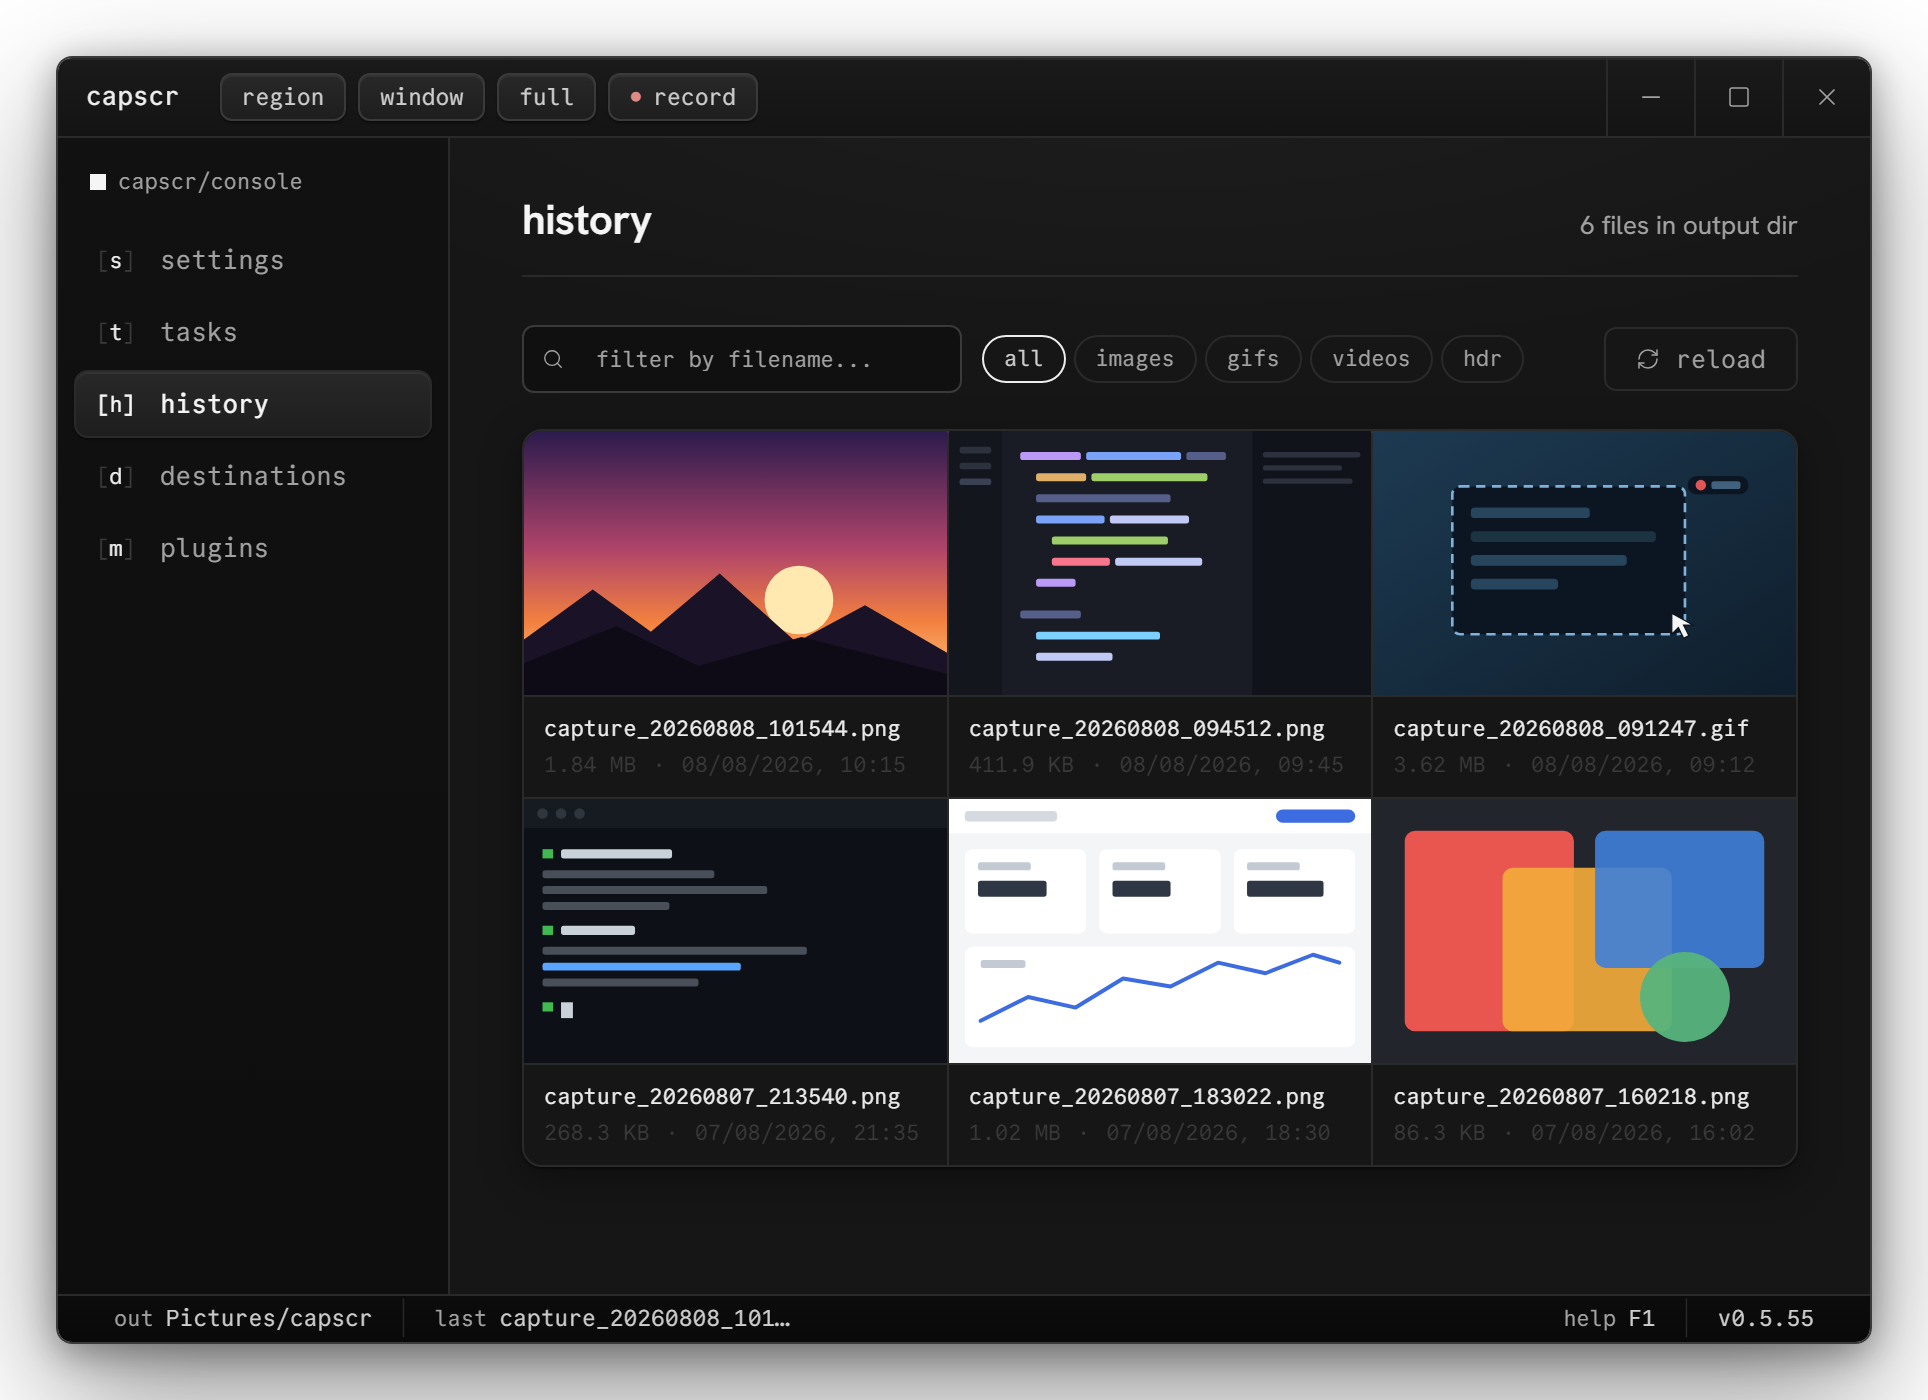
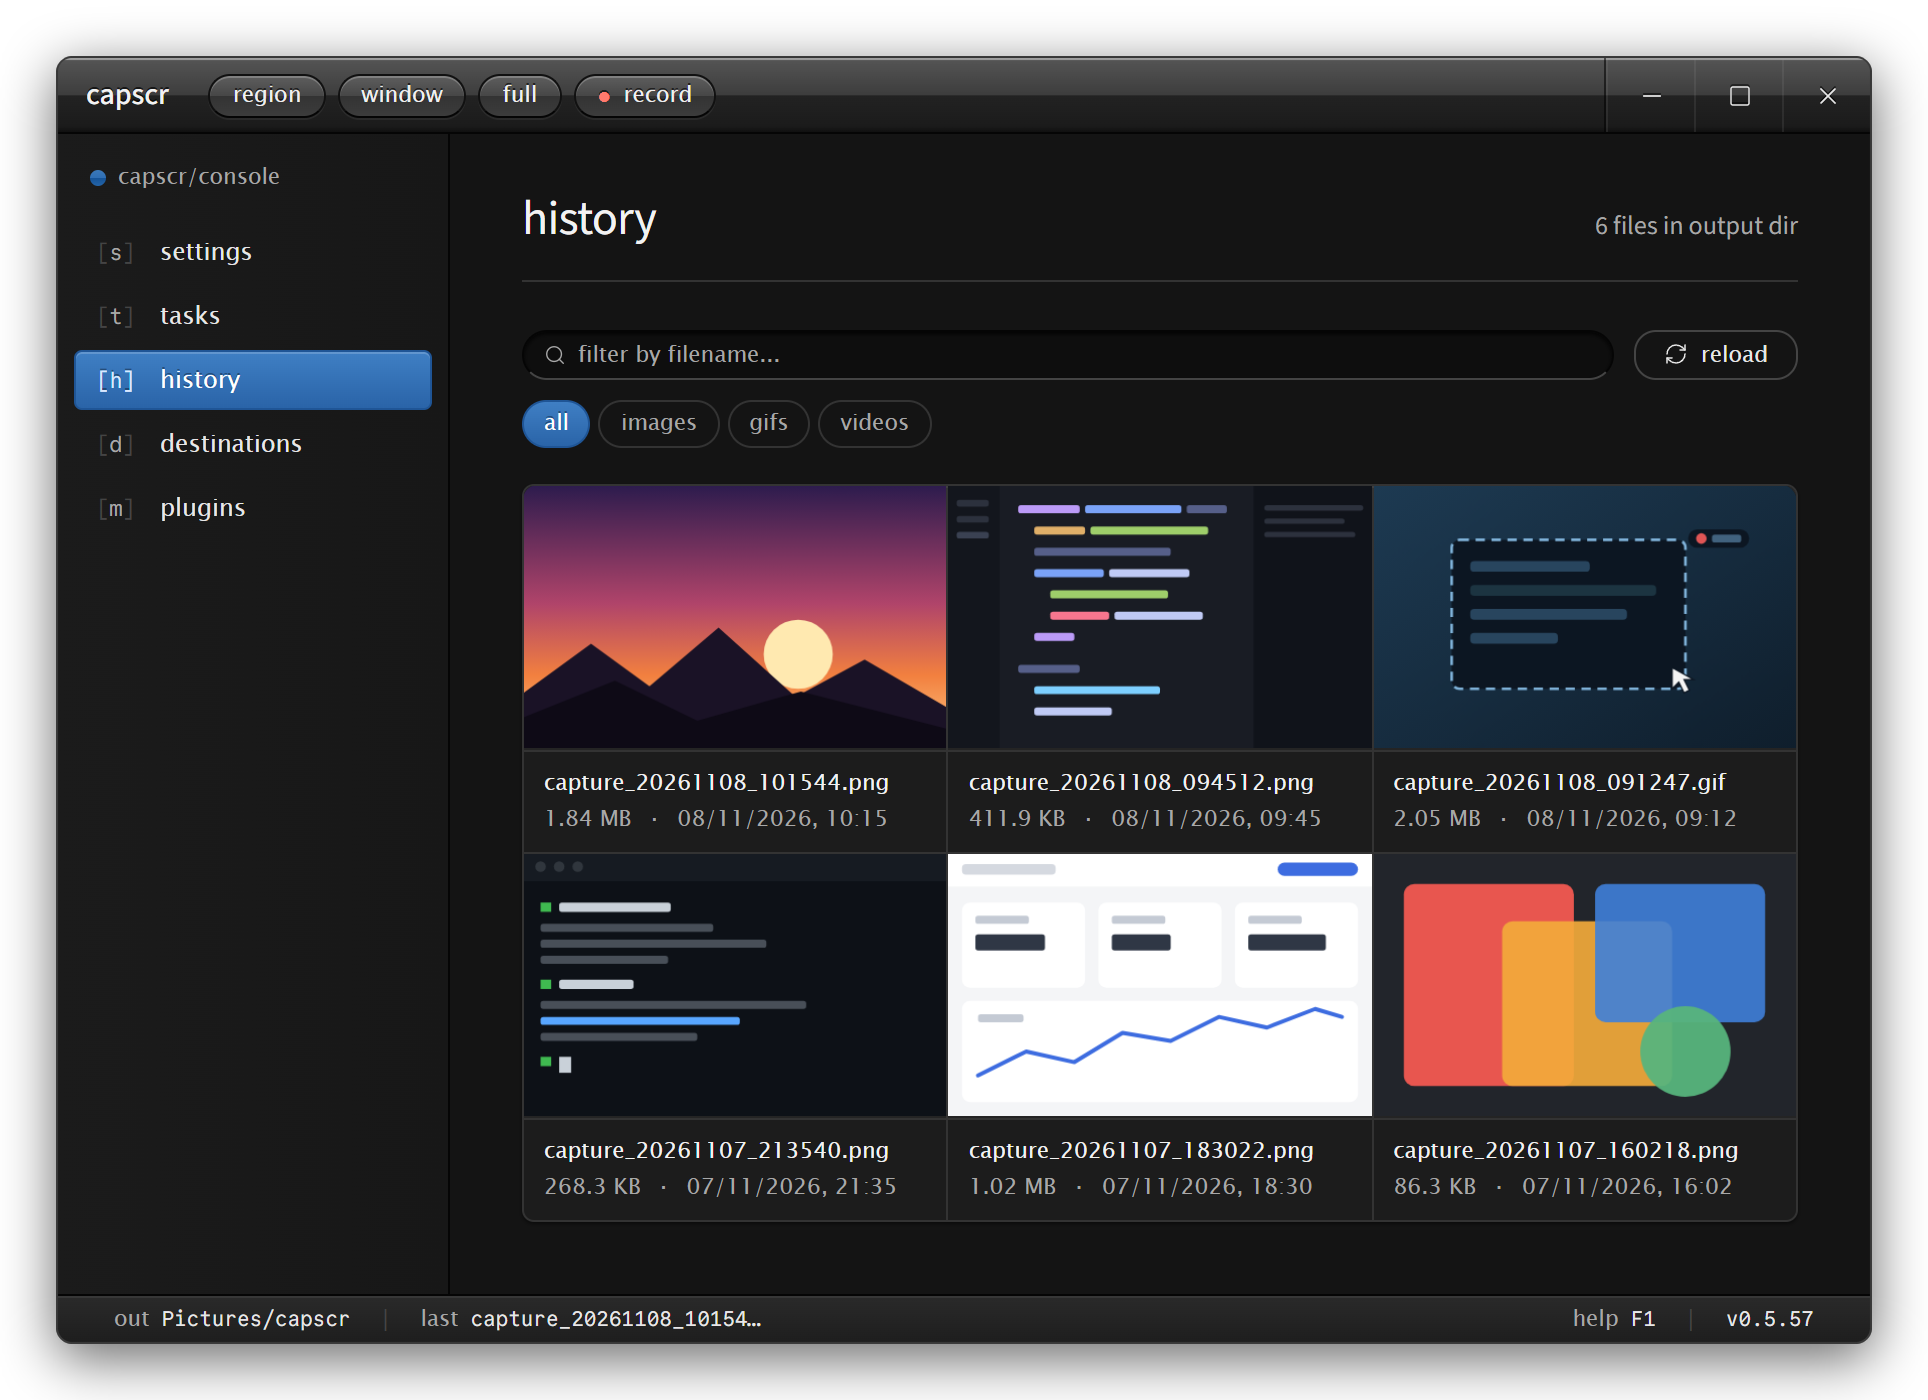
refresh readme screenshots and fix search box and title weight

diff --git a/frontend/src/styles.css b/frontend/src/styles.css
@@ -1257,7 +1257,7 @@ button.btn,
 .list-item-title {
   font-family: var(--sans);
   font-size: 14.5px;
-  font-weight: 650;
+  font-weight: 500;
   color: var(--text-2);
 }
 
@@ -1414,13 +1414,26 @@ button.btn,
 
 .history-search input {
   flex: 1;
+  max-width: none;
   border: none;
+  border-radius: 0;
+  box-shadow: none;
+  padding: 0;
   background: transparent;
   color: var(--text);
   font-family: inherit;
   font-size: 11px;
   outline: none;
   min-width: 0;
+}
+
+.history-search:focus-within {
+  border-color: var(--aqua-500);
+  box-shadow: var(--well-shadow), 0 0 0 3px rgba(75, 135, 225, 0.45);
+}
+
+.history-search input:focus {
+  box-shadow: none;
 }
 
 .history-search input::placeholder {
@@ -2403,7 +2416,7 @@ kbd {
   font-size: 21px;
   color: var(--paper);
   margin: 0 0 12px 0;
-  font-weight: 650;
+  font-weight: 500;
   letter-spacing: -0.01em;
 }
 

diff --git a/CHANGELOG.md b/CHANGELOG.md
@@ -10,6 +10,10 @@ format follows [keep-a-changelog](https://keepachangelog.com/en/1.1.0/) loosely.
 - rustls, rustls-webpki, quinn-proto, webpki-root-certs, zstd and crypto-bigint updated to patched releases, and the yanked async-executor, chacha20, clipboard-win and wnaf versions replaced
 - vite, solid-js, seroval and postcss updated in the frontend so `npm audit` comes back clean
 
+### fixed
+- the history filter box no longer draws a second input frame inside the pill, and gets a focus ring
+- task titles and the onboarding heading use the bundled medium weight instead of a synthesized bold
+
 ## [0.5.57] - 2026-11-08
 
 ### added
